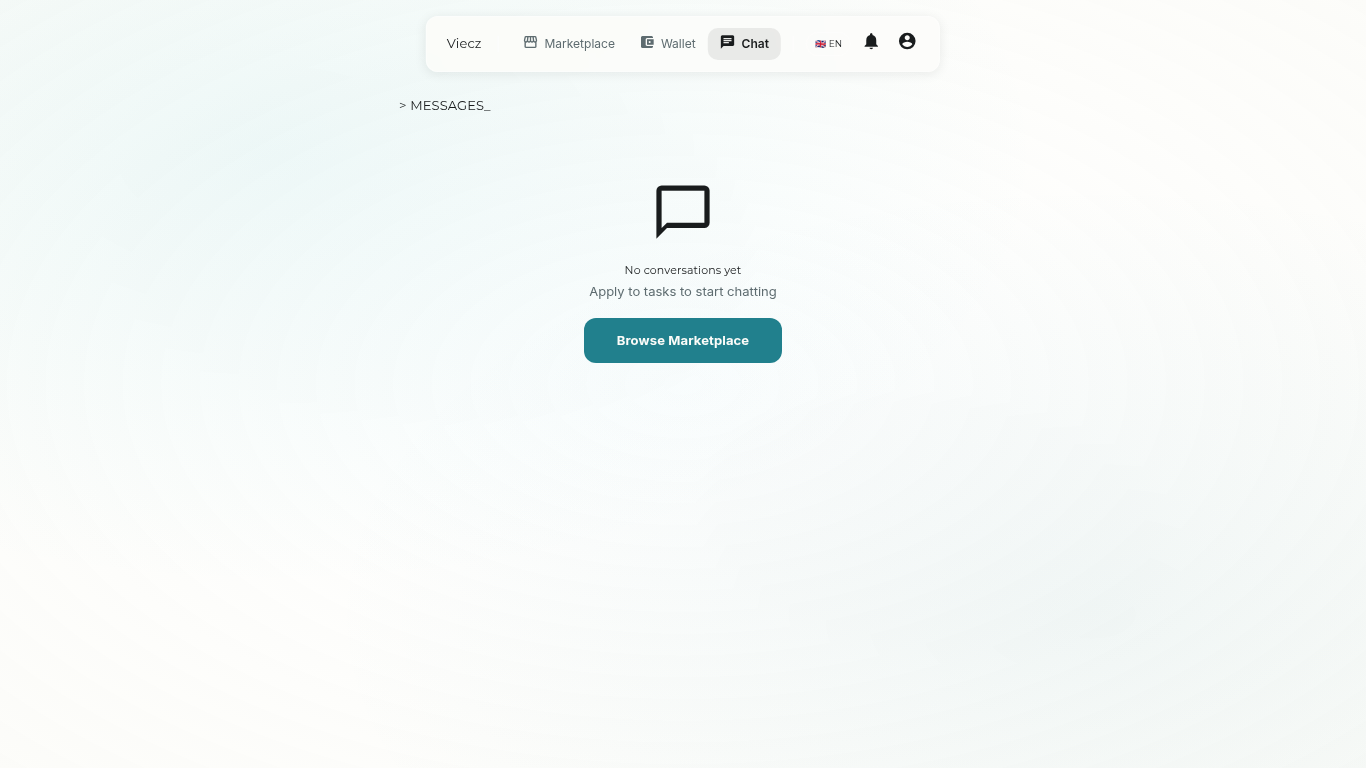
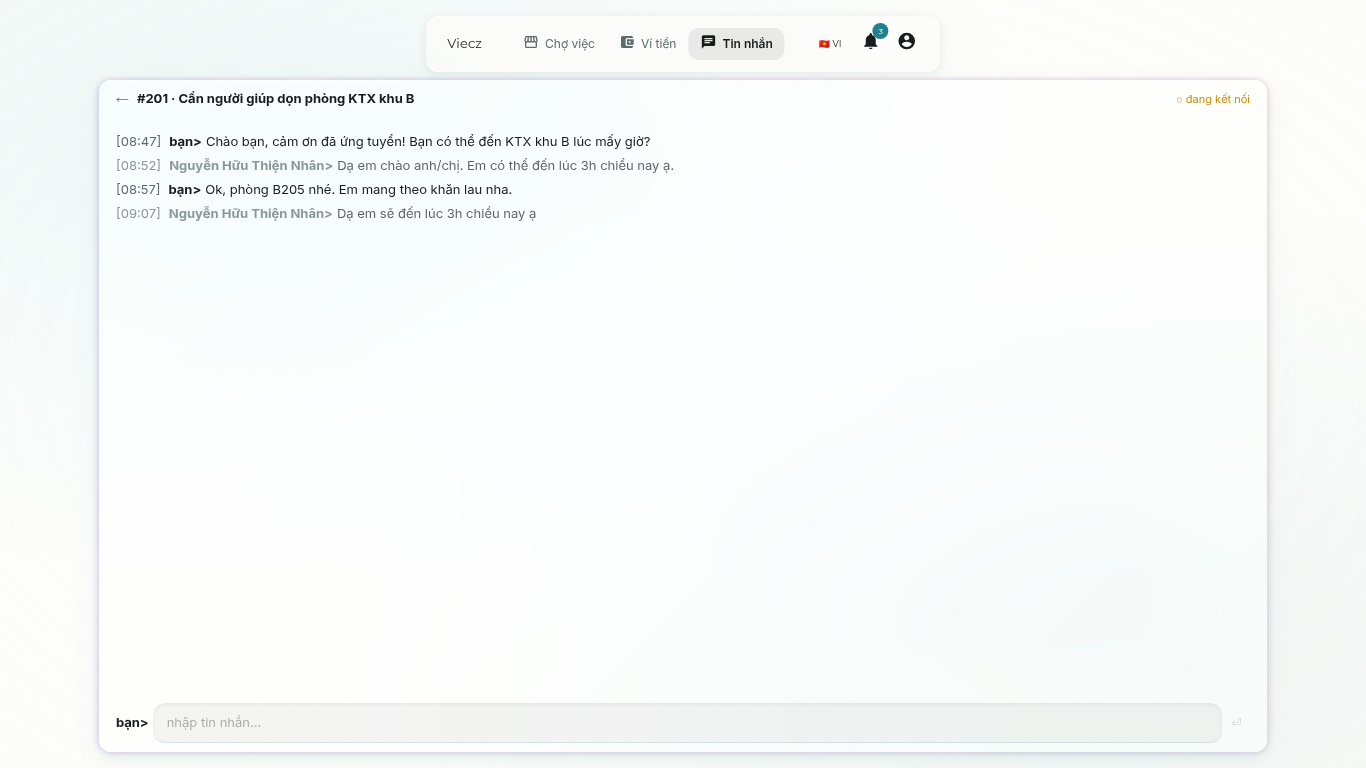
feat(slides): improve deck for I&E 2025 submission — 2-col layouts, market sizing, real screenshots
Split user flow into 2 slides with larger screenshots, add marketplace map
image, replace empty chat screenshot with real messages, add TAM/SAM/SOM
market funnel slide, and update competition rules with PDF export workflow.

diff --git a/docs/general/slide-viecz/style.css b/docs/general/slide-viecz/style.css
@@ -274,6 +274,56 @@ strong {
   color: #32B8C6 !important;
 }
 
+/* ── Larger screenshot cards (2-col layout) ── */
+.screenshot-card-lg {
+  border-radius: 6px !important;
+  width: 100% !important;
+  max-height: 160px !important;
+  object-fit: cover !important;
+  margin-bottom: 0.5rem !important;
+}
+
+/* ── Market funnel ── */
+.market-funnel {
+  display: flex !important;
+  flex-direction: column !important;
+  align-items: center !important;
+  margin-top: 2rem !important;
+  gap: 0.5rem !important;
+}
+
+.funnel-level {
+  text-align: center !important;
+  padding: 1rem 2rem !important;
+  border-radius: 8px !important;
+  font-weight: 600 !important;
+}
+
+.funnel-tam {
+  width: 90% !important;
+  background: rgba(50, 184, 198, 0.15) !important;
+  border: 1px solid rgba(50, 184, 198, 0.3) !important;
+  font-size: 1.1rem !important;
+}
+
+.funnel-sam {
+  width: 65% !important;
+  background: rgba(50, 184, 198, 0.25) !important;
+  border: 1px solid rgba(50, 184, 198, 0.4) !important;
+  font-size: 1rem !important;
+}
+
+.funnel-som {
+  width: 40% !important;
+  background: rgba(33, 128, 141, 0.5) !important;
+  border: 1px solid rgba(33, 128, 141, 0.7) !important;
+  font-size: 0.9rem !important;
+}
+
+.funnel-label {
+  color: #FCFCF9 !important;
+}
+
 /* ── Paragraphs & links ── */
 p {
   color: #FCFCF9 !important;

diff --git a/.claude/rules/pre-commit.md b/.claude/rules/pre-commit.md
@@ -5,3 +5,7 @@ description: Pre-commit hook and review requirements
 # Pre-commit Hook
 
 `/code-review` skill runs before `git commit` — enforced in `.claude/settings.json`. Must pass with no CRITICAL or WARNING findings before the commit hook allows it through.
+
+## MANDATORY: Always Run /simplify
+
+`/simplify` (step 4c) is NOT optional in `/code-review`. Always launch all 3 review agents (Code Reuse, Code Quality, Efficiency) regardless of how "simple" the changes look. No exceptions, no hand-waving.

diff --git a/.claude/rules/competition-files.md b/.claude/rules/competition-files.md
@@ -27,6 +27,12 @@
 - Vòng 3 (Mentorship): 4–5/2026
 - Vòng 4 (Chung kết): Cuối 5/2026
 
+## PDF Export Workflow
+
+- Export from ASUS browser: `ssh asus` — files at `/home/larvartar/Downloads/temp/`
+- Copy to server: `scp asus:"/home/larvartar/Downloads/temp/<file>.pdf" "<dest>"`
+- Add bookmarks: `pikepdf` in `/tmp/pdf-env/` uv venv
+
 ## Competition Field
 
 Công nghệ thông tin – AI – Chuyển đổi số
